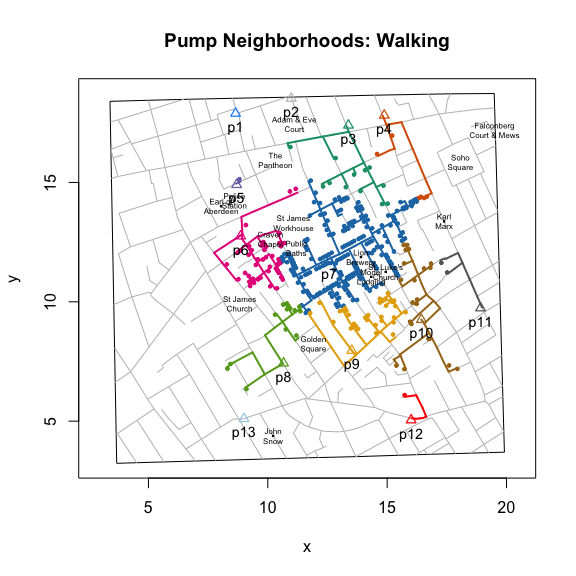
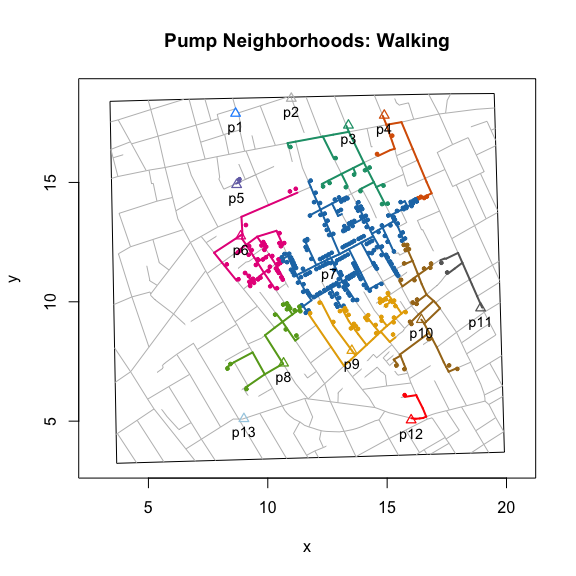
edit README

diff --git a/README.md b/README.md
@@ -26,7 +26,6 @@ I build on Snow's efforts by writing functions that allow you to compute pump ne
 
 ``` r
 plot(neighborhoodVoronoi())
-addLandmarks()
 ```
 
 ![](man/figures/README-voronoi-1.png)
@@ -35,7 +34,6 @@ The second flavor is based on the walking distance along the roads on the map. W
 
 ``` r
 plot(neighborhoodWalking())
-addLandmarks()
 ```
 
 ![](man/figures/README-walk-1.png)
@@ -76,7 +74,7 @@ plot(neighborhoodWalking(case.set = "expected"), type = "area")
 
 ### getting started
 
-To install 'cholera' from CRAN:
+To install 'cholera' from CRAN (<https://cran.r-project.org/package=cholera>):
 
 ``` r
 install.packages("cholera")
